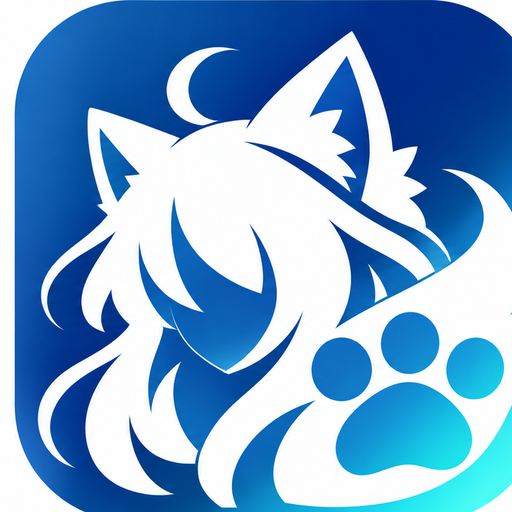
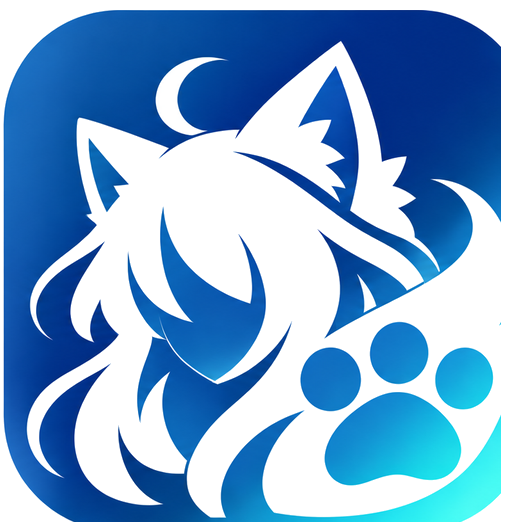
アイコンの四隅を透過し表示を中央寄せ

diff --git a/src/styles.css b/src/styles.css
@@ -217,15 +217,15 @@ body {
   font-size: 20px;
 }
 .logo-icon {
-  width: 22px;
-  height: 22px;
-  border-radius: 6px;
-  object-fit: cover;
+  display: block;
+  width: 24px;
+  height: 24px;
+  object-fit: contain;
   flex: none;
 }
 .logo.small .logo-icon {
-  width: 20px;
-  height: 20px;
+  width: 21px;
+  height: 21px;
 }
 
 .detail-bar {

diff --git a/docs/branding/ICON_HANDOFF.md b/docs/branding/ICON_HANDOFF.md
@@ -42,8 +42,12 @@
 | ファイル | サイズ | 用途 |
 |---|---|---|
 | `src-tauri/app-icons/pc.png` | 1254×1254 PNG | PC (desktop) アイコンの元画像 |
-| `src-tauri/app-icons/dark.png` | 512×512 PNG | モバイル既定アイコンの元画像 |
-| `src-tauri/app-icons/light.png` | 512×512 PNG | モバイル代替アイコンの元画像 |
+| `src-tauri/app-icons/dark.png` | 532×532 PNG (四隅透過) | モバイル既定アイコンの元画像 |
+| `src-tauri/app-icons/light.png` | 532×532 PNG (四隅透過) | モバイル代替アイコンの元画像 |
+
+- 2026-11-22: dark / light の白い四隅を透明化し、コンテンツを中央寄せして
+  正方形に再出力した (元画像はローカル `.agent-work/icon-originals/` に退避)。
+  アプリ内ロゴでもこの透過画像を使い、`object-fit: contain` でサイズを調整する。
 
 - 旧 `assets/icons/*.svg` は「SVG は崩れるため PNG / BMP を使う」というユーザー指示で
   **削除済み**。SVG をリネームしただけの代理登録は禁止。
